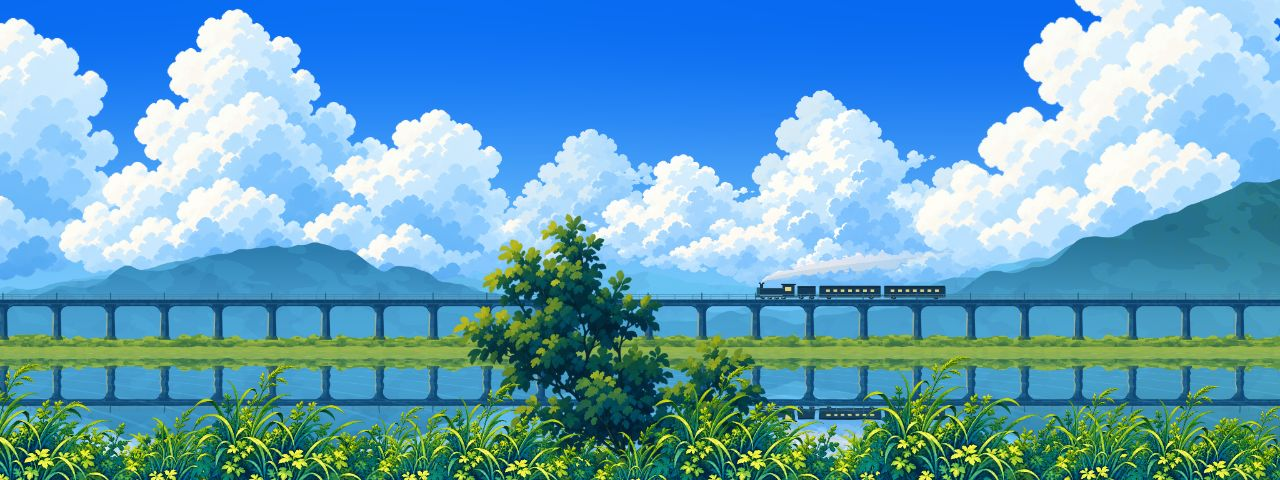
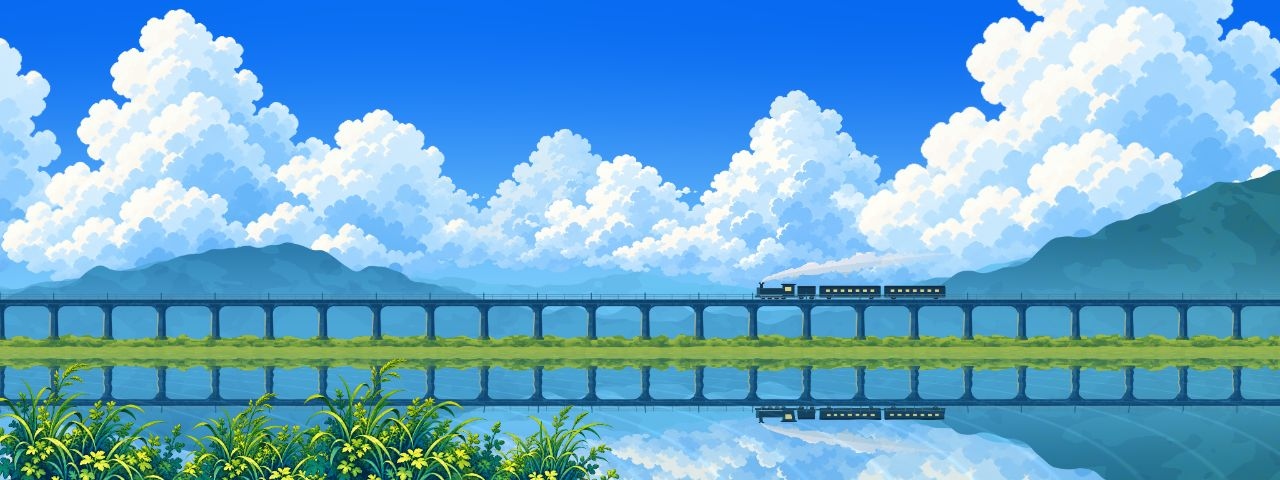
Refresh lakeshore previews and version gallery artwork

diff --git a/library/library.js b/library/library.js
@@ -1,6 +1,7 @@
 const $=id=>document.getElementById(id);
 const esc=value=>String(value).replaceAll('&','&amp;').replaceAll('<','&lt;').replaceAll('>','&gt;').replaceAll('"','&quot;');
 const url=p=>'../'+p;
+const posterUrl=p=>url(p)+'?v='+encodeURIComponent(catalog.revision);
 let catalog,collection='wallpapers',category='all',current=null,api=null,token=0;
 const listHash=()=>'#'+collection+(category==='all'?'':'/'+category);
 const collectionCategories=()=>collection==='wallpapers'?catalog.wallpaperCategories:catalog.materialCategories;
@@ -17,7 +18,7 @@ function renderGallery(){
  $('gallery').dataset.singleWallpaper=String(!materials&&items.length===1);
  $('empty').hidden=items.length>0;
  $('empty').textContent=materials?'这里暂时没有收录的素材。':'这个分类暂时没有收录的实例。';
- $('gallery').innerHTML=items.map((item,index)=>'<button class="work" data-work="'+esc(item.id)+'" data-kind="'+item.kind+'" aria-label="预览'+esc(item.title)+'"><div class="work-image"><img src="'+url(item.poster)+'" alt="'+esc(item.alt)+'" width="1280" height="720" loading="'+(index<2?'eager':'lazy')+'"><span class="play-mark" aria-hidden="true">▶</span></div><div class="work-caption"><h2>'+esc(item.title)+'</h2>'+('<span class="material-kind">'+esc(categoryName(item.category,item.kind))+' · ↗</span>')+'</div></button>').join('');
+ $('gallery').innerHTML=items.map((item,index)=>'<button class="work" data-work="'+esc(item.id)+'" data-kind="'+item.kind+'" aria-label="预览'+esc(item.title)+'"><div class="work-image"><img src="'+posterUrl(item.poster)+'" alt="'+esc(item.alt)+'" width="1280" height="720" loading="'+(index<2?'eager':'lazy')+'"><span class="play-mark" aria-hidden="true">▶</span></div><div class="work-caption"><h2>'+esc(item.title)+'</h2>'+('<span class="material-kind">'+esc(categoryName(item.category,item.kind))+' · ↗</span>')+'</div></button>').join('');
  $('gallery').querySelectorAll('button').forEach((button,index)=>button.onclick=()=>openItem(items[index]));
 }
 function clearPlayer(){token++;api=null;$('player').replaceChildren();$('player').dataset.ready='false';$('pause').disabled=true;$('pause').textContent='暂停';$('player-status').textContent='';$('retry').hidden=true;}
@@ -72,7 +73,7 @@ async function openItem(item,writeHash=true){
  renderGallery();const items=visibleItems(),index=items.findIndex(i=>i.id===item.id),request=token;
  $('viewer-title').innerHTML=esc(item.title)+'<span class="viewer-kind">'+esc(item.kind==='wallpaper'?categoryName(item.category,'wallpaper')+' · 完整实例':categoryName(item.category)+'素材')+'</span>';
  $('viewer-stage').style.aspectRatio=item.aspect??'16 / 9';
- $('viewer-poster').src=url(item.poster);$('viewer-poster').alt=item.alt;$('viewer-poster').hidden=false;
+ $('viewer-poster').src=posterUrl(item.poster);$('viewer-poster').alt=item.alt;$('viewer-poster').hidden=false;
  $('position').textContent=items.length>1?String(index+1).padStart(2,'0')+' / '+String(items.length).padStart(2,'0'):'';
  $('previous').disabled=items.length<2;$('next').disabled=items.length<2;$('previous').parentElement.hidden=items.length<2;
  renderDetails(item);if(!$('viewer').open)$('viewer').showModal();
@@ -105,7 +106,7 @@ document.addEventListener('fullscreenchange',()=>{$('fullscreen').textContent=do
 $('viewer').addEventListener('keydown',event=>{if(event.key==='ArrowRight'){event.preventDefault();navigateItem(1);}if(event.key==='ArrowLeft'){event.preventDefault();navigateItem(-1);}});
 window.addEventListener('pagehide',clearPlayer);window.addEventListener('hashchange',followHash);
 try{
- const response=await fetch('catalog.json?v=r19-open-lakeshore');if(!response.ok)throw Error('HTTP '+response.status);catalog=await response.json();
+ const response=await fetch('catalog.json?v=r19-open-lakeshore-final');if(!response.ok)throw Error('HTTP '+response.status);catalog=await response.json();
  if(!catalog.wallpapers?.length)throw Error('没有可展示的火车壁纸');followHash();
  window.LayerLibrary={get state(){return {ready:true,revision:catalog.revision,collection,category,total:visibleItems().length,visibleIds:visibleItems().map(i=>i.id),selected:current?.id??null,playing:!!api&&!api.state.settings.paused};}};
 }catch(error){$('load-error').hidden=false;$('load-error').textContent='画廊暂时无法加载，请刷新重试。';console.error(error);}

diff --git a/modules/foreground/generated-foliage-r09/preview.html b/modules/foreground/generated-foliage-r09/preview.html
@@ -1,1 +1,1 @@
-<!doctype html><html lang="zh-CN"><meta charset="utf-8"><meta name="viewport" content="width=device-width,initial-scale=1"><title>foreground/generated-foliage-r09 · 模块预览</title><style>body{margin:0;background:#101c28;color:#c8dde8;font:14px/1.7 system-ui}header{display:flex;gap:24px;justify-content:space-between;padding:14px 22px}a{color:#abdfee}iframe{width:100%;height:calc(100vh - 60px);border:0}body.embedded{overflow:hidden}body.embedded header{display:none}body.embedded iframe{height:100vh;display:block} @media(max-width:650px){header{font-size:12px}}</style><header><span>共享素材宿主 · 独立图层预览</span><a href="../../../library/index.html#foreground/generated-foliage-r09">返回模块库</a></header><iframe title="foreground/generated-foliage-r09动态预览" src="../../../themes/blue-sky-train/lab/cloud-library.html?module=foreground&v=r19-open-lakeshore"></iframe><script>if(new URLSearchParams(location.search).has("embed")){document.body.classList.add("embedded");const frame=document.querySelector("iframe");const src=new URL(frame.src);src.searchParams.set("embed","1");frame.src=src.href;}</script></html>
+<!doctype html><html lang="zh-CN"><meta charset="utf-8"><meta name="viewport" content="width=device-width,initial-scale=1"><title>foreground/generated-foliage-r09 · 模块预览</title><style>body{margin:0;background:#101c28;color:#c8dde8;font:14px/1.7 system-ui}header{display:flex;gap:24px;justify-content:space-between;padding:14px 22px}a{color:#abdfee}iframe{width:100%;height:calc(100vh - 60px);border:0}body.embedded{overflow:hidden}body.embedded header{display:none}body.embedded iframe{height:100vh;display:block} @media(max-width:650px){header{font-size:12px}}</style><header><span>共享素材宿主 · 独立图层预览</span><a href="../../../library/index.html#foreground/generated-foliage-r09">返回模块库</a></header><iframe title="foreground/generated-foliage-r09动态预览" src="../../../themes/blue-sky-train/lab/cloud-library.html?module=foreground&v=r19-open-lakeshore-final"></iframe><script>if(new URLSearchParams(location.search).has("embed")){document.body.classList.add("embedded");const frame=document.querySelector("iframe");const src=new URL(frame.src);src.searchParams.set("embed","1");frame.src=src.href;}</script></html>

diff --git a/modules/clouds/complete-cloud-stream-r04/preview.html b/modules/clouds/complete-cloud-stream-r04/preview.html
@@ -1,1 +1,1 @@
-<!doctype html><html lang="zh-CN"><meta charset="utf-8"><meta name="viewport" content="width=device-width,initial-scale=1"><title>clouds/complete-cloud-stream-r04 · 模块预览</title><style>body{margin:0;background:#101c28;color:#c8dde8;font:14px/1.7 system-ui}header{display:flex;gap:24px;justify-content:space-between;padding:14px 22px}a{color:#abdfee}iframe{width:100%;height:calc(100vh - 60px);border:0}body.embedded{overflow:hidden}body.embedded header{display:none}body.embedded iframe{height:100vh;display:block} @media(max-width:650px){header{font-size:12px}}</style><header><span>共享素材宿主 · 独立图层预览</span><a href="../../../library/index.html#clouds/complete-cloud-stream-r04">返回模块库</a></header><iframe title="clouds/complete-cloud-stream-r04动态预览" src="../../../themes/blue-sky-train/lab/cloud-library.html?module=clouds&v=r19-open-lakeshore"></iframe><script>if(new URLSearchParams(location.search).has("embed")){document.body.classList.add("embedded");const frame=document.querySelector("iframe");const src=new URL(frame.src);src.searchParams.set("embed","1");frame.src=src.href;}</script></html>
+<!doctype html><html lang="zh-CN"><meta charset="utf-8"><meta name="viewport" content="width=device-width,initial-scale=1"><title>clouds/complete-cloud-stream-r04 · 模块预览</title><style>body{margin:0;background:#101c28;color:#c8dde8;font:14px/1.7 system-ui}header{display:flex;gap:24px;justify-content:space-between;padding:14px 22px}a{color:#abdfee}iframe{width:100%;height:calc(100vh - 60px);border:0}body.embedded{overflow:hidden}body.embedded header{display:none}body.embedded iframe{height:100vh;display:block} @media(max-width:650px){header{font-size:12px}}</style><header><span>共享素材宿主 · 独立图层预览</span><a href="../../../library/index.html#clouds/complete-cloud-stream-r04">返回模块库</a></header><iframe title="clouds/complete-cloud-stream-r04动态预览" src="../../../themes/blue-sky-train/lab/cloud-library.html?module=clouds&v=r19-open-lakeshore-final"></iframe><script>if(new URLSearchParams(location.search).has("embed")){document.body.classList.add("embedded");const frame=document.querySelector("iframe");const src=new URL(frame.src);src.searchParams.set("embed","1");frame.src=src.href;}</script></html>

diff --git a/modules/bridge/blue-stone-lighting/preview.html b/modules/bridge/blue-stone-lighting/preview.html
@@ -1,1 +1,1 @@
-<!doctype html><html lang="zh-CN"><meta charset="utf-8"><meta name="viewport" content="width=device-width,initial-scale=1"><title>bridge/blue-stone-lighting · 模块预览</title><style>body{margin:0;background:#101c28;color:#c8dde8;font:14px/1.7 system-ui}header{display:flex;gap:24px;justify-content:space-between;padding:14px 22px}a{color:#abdfee}iframe{width:100%;height:calc(100vh - 60px);border:0}body.embedded{overflow:hidden}body.embedded header{display:none}body.embedded iframe{height:100vh;display:block} @media(max-width:650px){header{font-size:12px}}</style><header><span>共享素材宿主 · 独立图层预览</span><a href="../../../library/index.html#bridge/blue-stone-lighting">返回模块库</a></header><iframe title="bridge/blue-stone-lighting动态预览" src="../../../themes/blue-sky-train/lab/cloud-library.html?module=bridge&v=r19-open-lakeshore"></iframe><script>if(new URLSearchParams(location.search).has("embed")){document.body.classList.add("embedded");const frame=document.querySelector("iframe");const src=new URL(frame.src);src.searchParams.set("embed","1");frame.src=src.href;}</script></html>
+<!doctype html><html lang="zh-CN"><meta charset="utf-8"><meta name="viewport" content="width=device-width,initial-scale=1"><title>bridge/blue-stone-lighting · 模块预览</title><style>body{margin:0;background:#101c28;color:#c8dde8;font:14px/1.7 system-ui}header{display:flex;gap:24px;justify-content:space-between;padding:14px 22px}a{color:#abdfee}iframe{width:100%;height:calc(100vh - 60px);border:0}body.embedded{overflow:hidden}body.embedded header{display:none}body.embedded iframe{height:100vh;display:block} @media(max-width:650px){header{font-size:12px}}</style><header><span>共享素材宿主 · 独立图层预览</span><a href="../../../library/index.html#bridge/blue-stone-lighting">返回模块库</a></header><iframe title="bridge/blue-stone-lighting动态预览" src="../../../themes/blue-sky-train/lab/cloud-library.html?module=bridge&v=r19-open-lakeshore-final"></iframe><script>if(new URLSearchParams(location.search).has("embed")){document.body.classList.add("embedded");const frame=document.querySelector("iframe");const src=new URL(frame.src);src.searchParams.set("embed","1");frame.src=src.href;}</script></html>

diff --git a/library/index.html b/library/index.html
@@ -6,5 +6,5 @@
 <main><h1 id="section-title" class="sr-only">完整火车壁纸实例</h1><nav id="collection-categories" class="category-bar" aria-label="实例分类"></nav><section id="gallery" class="gallery" aria-label="完整火车壁纸实例"></section><p id="empty" class="empty" hidden>这里暂时没有收录的素材。</p><p id="load-error" role="alert" hidden></p></main>
 <footer><span>让沿途的风景，留下来。</span><span>MADE WITH AI & CODE</span></footer>
 <dialog id="viewer" aria-labelledby="viewer-title"><div id="viewer-surface"><div class="viewer-head"><h2 id="viewer-title"></h2><button id="close" class="icon-button" aria-label="关闭作品">×</button></div><div id="viewer-stage" class="viewer-stage"><img id="viewer-poster" alt=""><div id="player"></div><p id="player-status" role="status"></p></div><div class="viewer-controls"><div><button id="pause" disabled>暂停</button><button id="retry" hidden>重新加载</button><button id="fullscreen">全屏</button></div><span id="position"></span><div class="viewer-navigation"><button id="previous" aria-label="上一项">←</button><button id="next" aria-label="下一项">→</button></div></div><details id="viewer-details" class="viewer-details"><summary id="details-label">配套素材</summary><div id="details-content"></div></details></div></dialog>
-<script type="module" src="library.js?v=r19-open-lakeshore"></script>
+<script type="module" src="library.js?v=r19-open-lakeshore-final"></script>
 </body></html>
